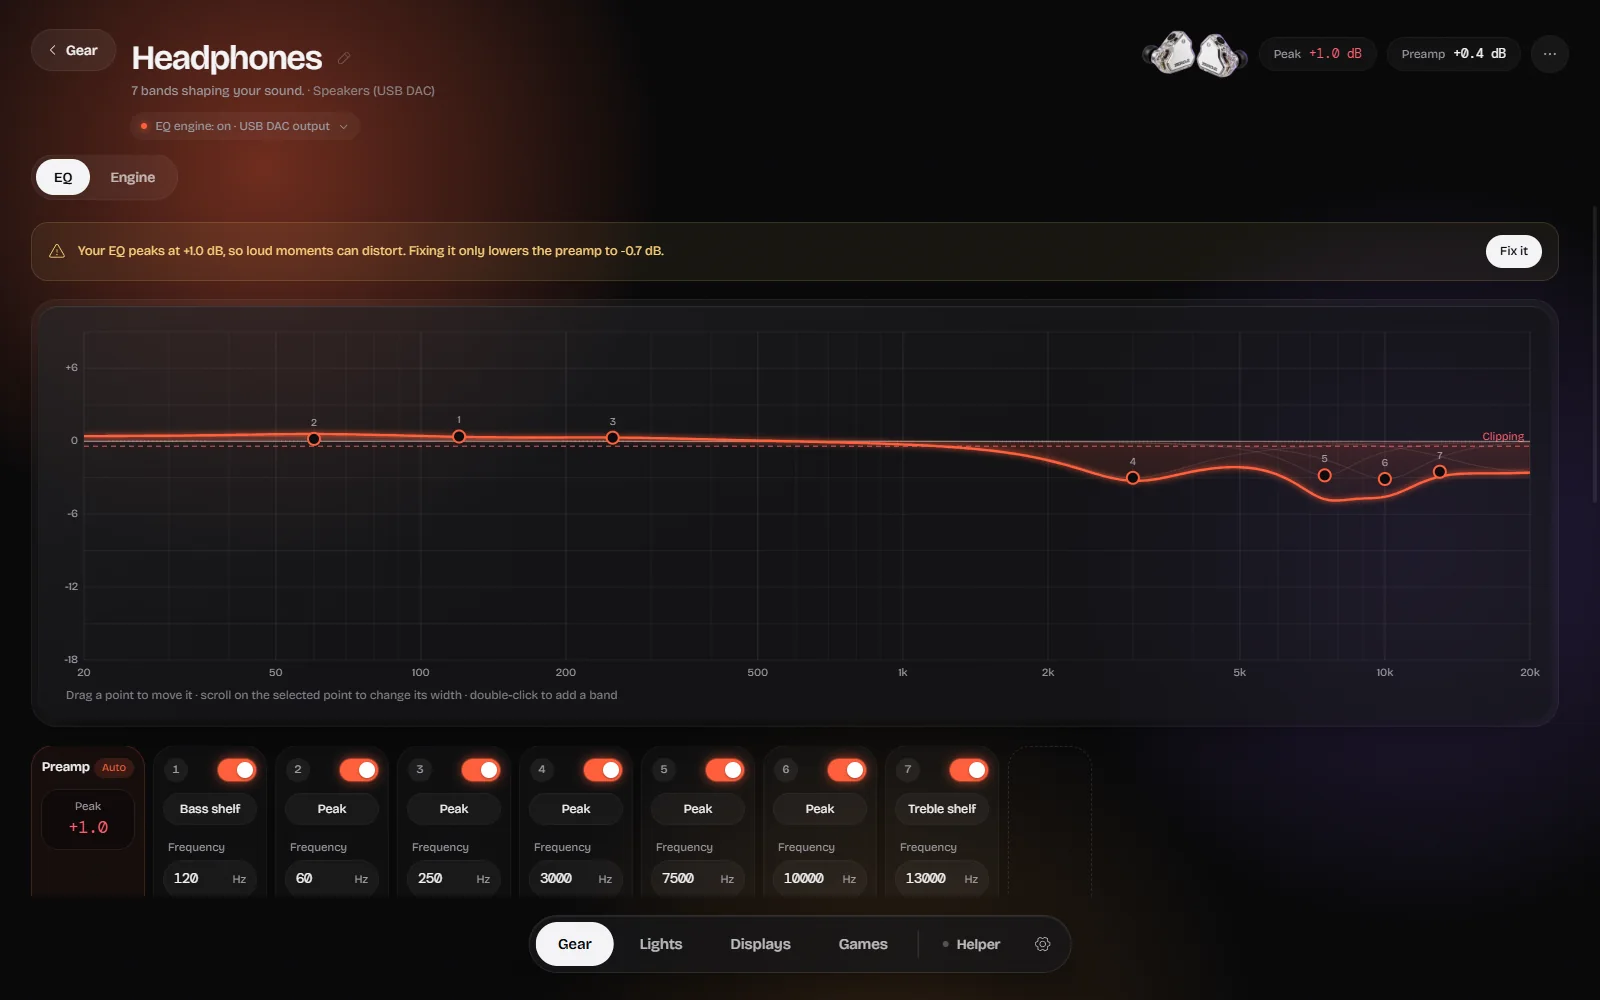
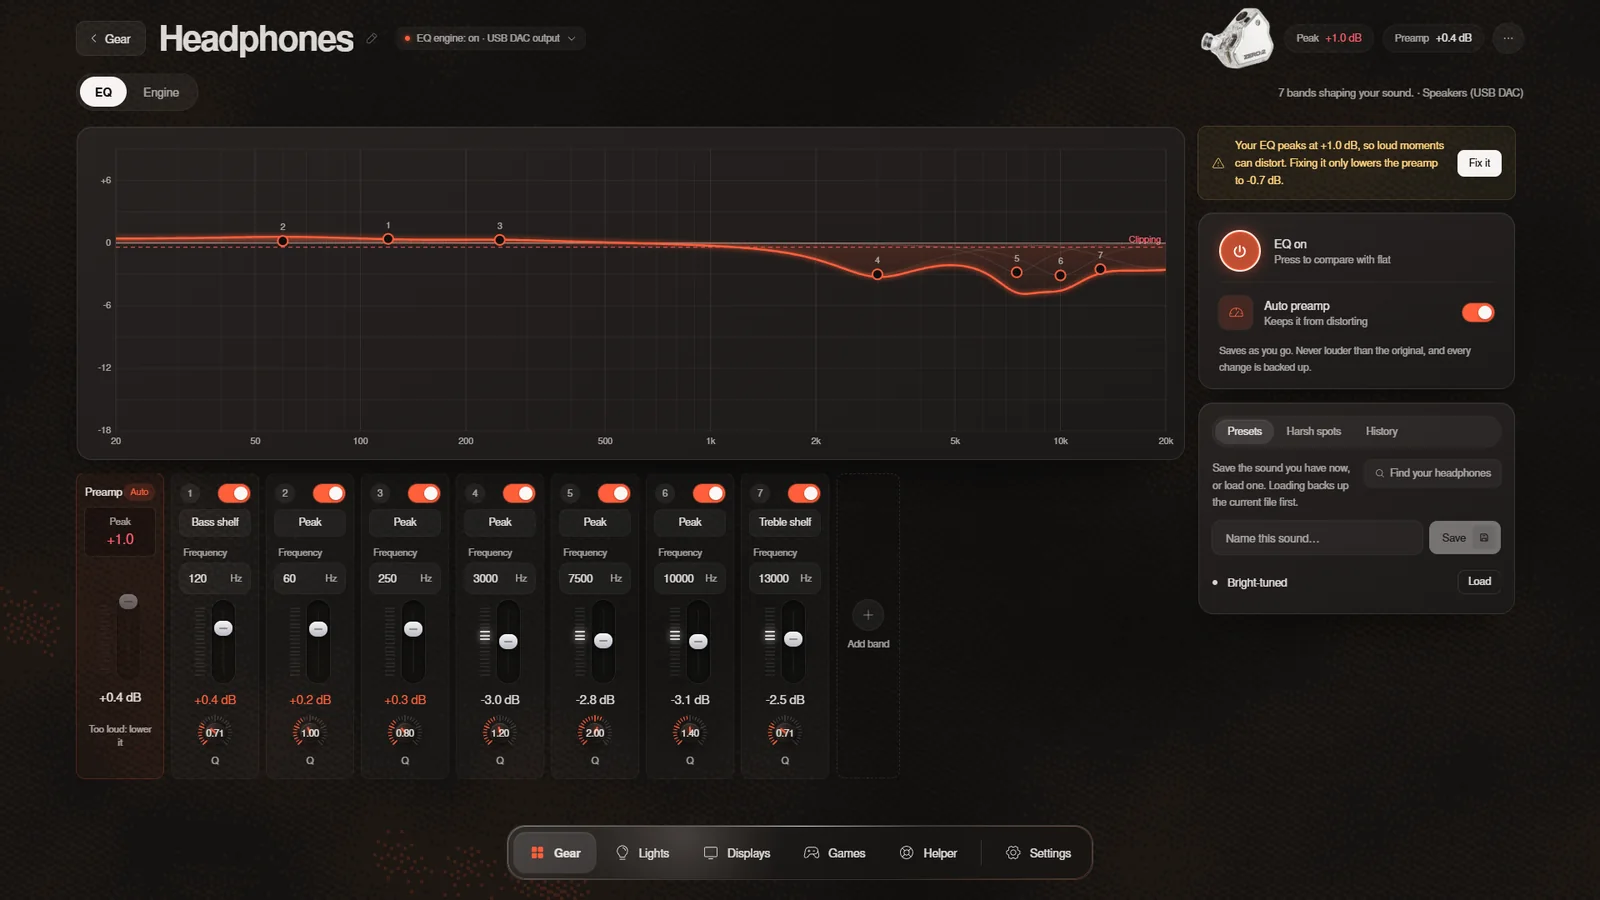
README: the front page, laid out like a product page
A centred banner, the one-line pitch, badges (latest release, the website, Discord, the Linux build, the
license) and quick links; a download table for Windows, Linux and the browser; one table of what SYNQ does;
screenshots of the final design (Gear, a mouse's page, the EQ, Games, Lights) in place of the old ones; careful
by default, privacy, tested hardware and community as short lists; building from source and the credits
folded away. Same facts as before, nothing new claimed.

diff --git a/README.md b/README.md
@@ -1,54 +1,133 @@
-![SYNQ: Every device. One system.](branding/synq/readme-banner.png)
+<p align="center">
+  <img src="branding/synq/readme-banner.png" alt="SYNQ: Every device. One system." width="100%">
+</p>
 
-# SYNQ
+<h1 align="center">SYNQ</h1>
 
-[![Linux](https://github.com/logan-wurx/synqhub/actions/workflows/linux.yml/badge.svg)](https://github.com/logan-wurx/synqhub/actions/workflows/linux.yml)
-[![License: AGPL v3](https://img.shields.io/badge/license-AGPL--3.0--or--later-ff5e3a.svg)](LICENSE)
+<p align="center">
+  <b>One free app for your mouse, keyboard, controller, headphones, monitor, webcam and lights.</b><br>
+  Windows and Linux, or right in your browser. No account, no telemetry, no sponsors.
+</p>
 
-One light app for all your gear: mice, keyboards, controllers, headphones and headsets, monitors, webcams and RGB
-lights, without each maker's app. Settings are written to the devices themselves, so nothing has to run in the
-background. Free software under the [GNU AGPL 3.0 or later](LICENSE).
+<p align="center">
+  <a href="https://github.com/logan-wurx/synqhub/releases/latest"><img src="https://img.shields.io/github/v/release/logan-wurx/synqhub?label=download&color=ff5e3a" alt="Latest release"></a>
+  <a href="https://synqhub.app"><img src="https://img.shields.io/badge/website-synqhub.app-2b2522" alt="Website: synqhub.app"></a>
+  <a href="https://discord.gg/WP9HFebp8D"><img src="https://img.shields.io/badge/Discord-join-5865F2?logo=discord&logoColor=white" alt="Join the Discord"></a>
+  <a href="https://github.com/logan-wurx/synqhub/actions/workflows/linux.yml"><img src="https://github.com/logan-wurx/synqhub/actions/workflows/linux.yml/badge.svg" alt="Linux build"></a>
+  <a href="LICENSE"><img src="https://img.shields.io/badge/license-AGPL--3.0--or--later-ff5e3a" alt="License: AGPL 3.0 or later"></a>
+</p>
 
-![The Gear page](docs/images/devices.webp)
+<p align="center">
+  <a href="#download">Download</a> ·
+  <a href="https://synqhub.app">Use it in your browser</a> ·
+  <a href="#what-it-does">What it does</a> ·
+  <a href="#tested-hardware">Tested hardware</a> ·
+  <a href="https://discord.gg/WP9HFebp8D">Discord</a>
+</p>
 
-- **Devices.** Mice (DPI, polling up to 8K, lift-off and more), keyboards (per-key actuation and rapid trigger on
-  magnetic boards), controllers (a live tester: drift, circularity, deadzones, the real polling rate; settings for some
-  pads), headsets (battery, sidetone, their own settings) and webcams (exposure, focus, white balance).
-- **Sound.** A system-wide EQ on Equalizer APO, presets for about 6,000 headphones from AutoEq, auto preamp, and a backup
-  of every change. It never saves an EQ louder than the source.
-- **Lights.** Govee lights over Bluetooth with no Govee app, Philips Hue, Nanoleaf, Elgato, Twinkly, WiZ, Yeelight and
-  LIFX on your home network, Windows Dynamic Lighting devices and USB RGB hubs, in one Lights view with screen sync.
-- **Displays.** Brightness, contrast, colour and input over DDC/CI.
-- **Gear Doctor** checks your gear in about a minute; **Pro setups** translate a pro player's settings to your mouse.
+<p align="center">
+  <img src="docs/images/gear.webp" alt="The Gear page: every connected device by kind, the active one on the left" width="100%">
+</p>
 
-**Careful by default.** Every outgoing report passes an allowlist that the Rust bridge checks again. Every change is
-backed up first and read back after. Firmware and bootloader commands are never sent; pairing and factory reset, where a
-page offers them, wait for a confirmation and a backup. A device SYNQ hasn't been tried on stays read-only until you
-turn on **Allow changes**. What each device gets, and how far it
-has been tested, is in [docs/devices/CAPABILITIES.md](docs/devices/CAPABILITIES.md).
-
-**Nothing in the background.** SYNQ runs while its window is open. The optional SYNQ Helper (off unless you turn it
-on) adds per-game profiles, battery alerts and a bridge for the website; see [docs/helper.md](docs/helper.md). It goes
-online only when you use something that needs it: a VIA keyboard's layout, the AutoEq headphone list, Steam cover art.
-
-| Lights | Sound | All lights together |
-|---|---|---|
-| ![A lamp's page](docs/images/lamp.webp) | ![The Sound page](docs/images/sound.webp) | ![The Lights view](docs/images/lights-view.webp) |
+SYNQ replaces each maker's app with one light one. Settings are written to the devices themselves, so you can close it
+and they stay. It is free software under the [GNU AGPL 3.0 or later](LICENSE).
 
 ## Download
 
-Get the newest installer from [Releases](https://github.com/logan-wurx/synqhub/releases): Windows 10 or 11 (64-bit),
-or the `.deb` / AppImage for Linux. SYNQ is in beta and the installer isn't code-signed yet, so Windows SmartScreen
-asks once: **More info**, then **Run anyway**.
+| Platform | Get it | Notes |
+|---|---|---|
+| **Windows 10 / 11** | [Installer (.exe)](https://github.com/logan-wurx/synqhub/releases/latest) | 64-bit. Not code-signed yet: when Windows says "Windows protected your PC", click **More info**, then **Run anyway**. |
+| **Linux** | [.deb or AppImage](https://github.com/logan-wurx/synqhub/releases/latest) | x86-64. The .deb for Ubuntu 22.04+ and Debian 12+, the AppImage for other distributions. [Linux guide](docs/linux.md) |
+| **Browser** | [synqhub.app](https://synqhub.app) | Chrome, Edge or Opera on a computer, nothing to install for mice and keyboards. [SYNQ Helper](https://github.com/logan-wurx/synqhub/releases/latest/download/synq-helper.exe) (Windows, installs without administrator) adds the EQ, monitors, webcams, Wi-Fi lights and game profiles. |
 
-**Tested by hand:** Logitech PRO X 2 DEX, ATK X1 V2 Air+, ROG Falchion Ace HFX (and, so far, the connection and power of
-Govee's H6076 floor lamp). Everything else is built from documented protocols and simulations, and says **Experimental**
-until someone with that device has tried it. If that's you, a
-[diagnostics file](CONTRIBUTING.md#reporting-a-device-that-misbehaves) helps a lot.
+Every file's SHA-256 is in `SHA256SUMS.txt` on the [release page](https://github.com/logan-wurx/synqhub/releases/latest).
+
+**Linux in one line** (the .deb also installs SYNQ Helper and the device rule):
+
+```bash
+sudo apt install ./SYNQ_*_amd64.deb
+```
+
+## What it does
+
+| Area | What you get |
+|---|---|
+| **Mice** | DPI steps, polling up to 8K, lift-off distance, and debounce, motion sync and angle snapping where the mouse has them. |
+| **Keyboards** | Per-key actuation, rapid trigger and SOCD on magnetic boards, plus lighting and polling rate. |
+| **Game profiles** | A game's settings go on when it starts and your everyday ones come back when it closes, with SYNQ open or closed. Every mouse and keyboard SYNQ drives. |
+| **Sound** | A system-wide EQ (Equalizer APO on Windows, PipeWire on Linux), about 6,000 headphone presets from AutoEq, auto preamp, Harsh spots, and a backup of every change. It never saves an EQ louder than the source. |
+| **Controllers** | A live tester: drift, circularity, deadzones, triggers, gyro and the real polling rate. Experimental settings for DualSense Edge, GameSir, 8BitDo and Flydigi pads. |
+| **Headsets** | Battery, chat-mix and their own settings for 27 gaming headsets. |
+| **Lights** | Govee over Bluetooth with no Govee app, Philips Hue, Nanoleaf, Elgato, Twinkly, WiZ, Yeelight, LIFX, Windows Dynamic Lighting and USB RGB hubs, in one view with screen sync. |
+| **Displays and webcams** | Brightness, contrast, colour and input over DDC/CI. Exposure, focus, zoom and white balance over UVC. |
+| **Keep your feel** | Save how your mouse and keyboard feel and carry it to a new one of any brand. 41 CS2 and Valorant pros' setups, translated to your mouse. |
+| **Gear Doctor** | A one-minute checkup with a report card per device, and **Fix it** with **Undo**. |
+
+<table>
+  <tr>
+    <td width="50%"><img src="docs/images/mouse.webp" alt="A mouse's page: pointer speed, polling rate and lift-off"></td>
+    <td width="50%"><img src="docs/images/sound.webp" alt="The Sound page: the EQ curve, its bands and presets"></td>
+  </tr>
+  <tr>
+    <td align="center">One page per device</td>
+    <td align="center">A system-wide EQ</td>
+  </tr>
+  <tr>
+    <td width="50%"><img src="docs/images/games.webp" alt="The Games page: each game with the devices that have a profile for it"></td>
+    <td width="50%"><img src="docs/images/lights.webp" alt="The Lights page: Govee lamps, light bars and RGB hubs together"></td>
+  </tr>
+  <tr>
+    <td align="center">Game profiles</td>
+    <td align="center">All your lights together</td>
+  </tr>
+</table>
+
+## Careful by default
+
+- Every outgoing report passes an allowlist that the Rust bridge checks again.
+- Every change is backed up first and read back after.
+- Firmware and bootloader commands are never sent. Pairing and factory reset, where a page offers them, wait for a
+  confirmation and a backup.
+- A device SYNQ hasn't been tried on stays read-only until you turn on **Allow changes**.
+
+What each device gets, and how far it has been tested: [docs/devices/CAPABILITIES.md](docs/devices/CAPABILITIES.md).
+
+## Privacy
+
+- No account, no telemetry, no sponsors, nothing bundled.
+- Close SYNQ and nothing runs, unless you turn on SYNQ Helper for game profiles and battery alerts
+  ([docs/helper.md](docs/helper.md)).
+- SYNQ goes online only for what needs it: a VIA keyboard's layout, the AutoEq headphone list, Steam cover art, and the
+  official Equalizer APO installer when SYNQ Helper sets up the EQ without one.
+- The website counts visits anonymously through Cloudflare Web Analytics (no cookies). The desktop app has no analytics.
+
+## Tested hardware
+
+| Device | Status |
+|---|---|
+| Logitech PRO X 2 DEX | Tested by hand, cable and receiver |
+| ATK X1 V2 Air+ | Tested by hand, cable and receiver |
+| ROG Falchion Ace HFX | Tested by hand |
+| Govee H6076 floor lamp | Connection and power tested |
+| Everything else | Built from documented protocols and simulations. Marked **Experimental** until an owner has tried it. |
+
+Own something on the experimental list? A [diagnostics file](CONTRIBUTING.md#reporting-a-device-that-misbehaves)
+helps a lot.
+
+## Community
+
+- **[Discord](https://discord.gg/WP9HFebp8D):** bugs, device requests and release news.
+- **[Issues](https://github.com/logan-wurx/synqhub/issues/new/choose):** bug reports and "support my device" requests.
+- **Security:** something that could damage a device or a PC goes through [SECURITY.md](SECURITY.md), not a public issue.
 
 ## Run from source
 
-The short version is below; [CONTRIBUTING.md](CONTRIBUTING.md) has the full setup and the rules for device code.
+<details>
+<summary>Build and test SYNQ yourself</summary>
+
+<br>
+
+[CONTRIBUTING.md](CONTRIBUTING.md) has the full setup and the rules for device code.
 
 ```bash
 npm install
@@ -64,12 +143,6 @@ locally and in CI:
 npm run verify
 ```
 
-## Linux
-
-The Linux app (.deb and AppImage, built and tested in CI on Ubuntu 22.04) runs the EQ in PipeWire, reaches devices
-through hidraw with a udev rule generated from the bridge's own tables, and runs SYNQ Helper from XDG autostart.
-See [docs/linux.md](docs/linux.md), including what is still untested on real hardware.
-
 Before `npm run tauri build` (or `dev`) on a fresh clone, fetch the bundled EQ engine installer once. It is checked
 against its SHA-256 and kept out of git:
 
@@ -77,9 +150,16 @@ against its SHA-256 and kept out of git:
 node src-tauri/eq-engine/fetch.mjs
 ```
 
-## Brand
+On Linux the app runs the EQ in PipeWire, reaches devices through hidraw with a udev rule generated from the bridge's
+own tables, and starts SYNQ Helper from XDG autostart. [docs/linux.md](docs/linux.md) has the details, including what
+is still untested on real hardware.
 
-The logo pack is in [`branding/synq/source`](branding/synq/source) and its vector tracing in [`branding/synq/svg`](branding/synq/svg). `python branding/synq/build.py` makes every other brand file from it (installer art, website icons, link preview, README banner, the app's logo paths), then `npx tauri icon branding/synq/app-icon-1024.png -o src-tauri/icons` makes the app icons.
+**Brand files.** The logo pack is in [`branding/synq/source`](branding/synq/source) and its vector tracing in
+[`branding/synq/svg`](branding/synq/svg). `python branding/synq/build.py` makes every other brand file from it
+(installer art, website icons, link preview, README banner, the app's logo paths), then
+`npx tauri icon branding/synq/app-icon-1024.png -o src-tauri/icons` makes the app icons.
+
+</details>
 
 ## License
 
@@ -87,6 +167,11 @@ SYNQ is free software: you can redistribute it and/or modify it under the terms 
 License as published by the Free Software Foundation, either version 3 of the License, or (at your option) any later
 version. It is distributed in the hope that it will be useful, but WITHOUT ANY WARRANTY; see [LICENSE](LICENSE).
 Copyright (C) 2026 logan-wurx.
+
+<details>
+<summary>What the license doesn't cover, and what SYNQ is built on</summary>
+
+<br>
 
 Not covered by that license:
 
@@ -103,3 +188,5 @@ Built on: OpenMouse's protocol and keyboard drivers (AGPL-3.0-or-later), AnalogS
 protocols (GPL-3.0), AutoEq (MIT), and the protocol notes of ha-govee-led-ble (MIT), govee_ble_lights (MIT) and OpenRGB
 (GPL-2.0, facts only). The full list is in the app (Settings › Licenses) and in each area's docs. The Uiverse elements
 are MIT (credits in `src/components/uiverse/uiverse.css`); the 21st.dev components are credited in their files.
+
+</details>
